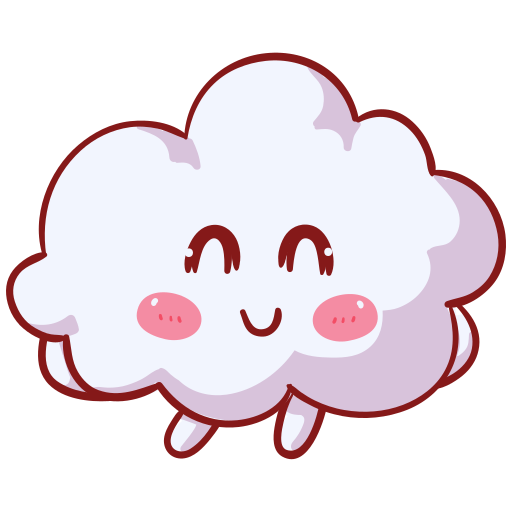
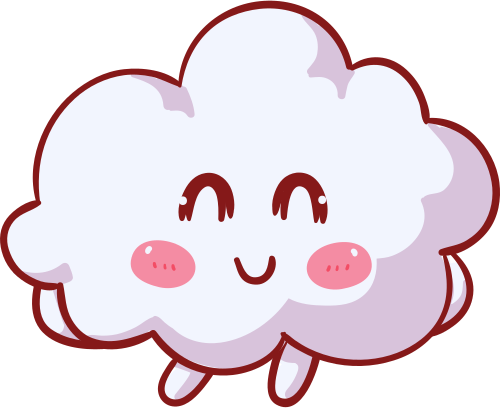
create js functionality for cloud jumper platformer mini game

diff --git a/scripts/cloudJumper.js b/scripts/cloudJumper.js
@@ -1,0 +1,143 @@
+const player = document.getElementById('cloud-jumper');
+const game = document.querySelector('.cloud-jumper-game');
+const clouds = [];
+
+let playerY = 100;
+let velocityY = 0;
+const gravity = 0.65;
+let gameStarted = false;
+
+let isJumping = false;
+let jumpPower = 8;
+let charging = false;
+let maxPower = 14;
+let chargeRate = 0.5;
+let onPlatform = false;
+let activePlatform = null;
+
+let gameOver = false;
+
+
+const maxGap = (2 * maxPower / gravity) * 1.5; 
+
+for (let i = 0; i < 5; i++) {
+    const el = document.createElement('img');
+    el.src = "./images/cloud.png"; // your image
+    el.classList.add('cloud');
+
+    game.appendChild(el);
+
+    clouds.push({
+        x: i === 0 ? 300 : i === 1 ? 600 : game.clientWidth + i * (maxGap),
+        y: 50,
+        el
+    });
+}
+
+clouds.forEach(c => {
+    c.el.style.left = c.x + 'px';
+    c.el.style.bottom = c.y + 'px';
+});
+
+
+
+function update() {
+    if (gameStarted) {
+        if (gameOver) {
+            requestAnimationFrame(update);
+            return;
+        }
+
+        // Thrust while holding space
+        if (charging) {
+            velocityY = Math.min(velocityY + chargeRate, maxPower);
+        }
+
+        // Apply physics when not on a platform
+        if (!onPlatform) {
+            velocityY -= gravity;
+            playerY += velocityY;
+        } else {
+            // Ride the active platform's Y position
+            if (activePlatform) {
+                playerY = activePlatform.y + activePlatform.el.offsetHeight;
+            }
+        }
+
+        player.style.bottom = playerY + 'px';
+
+        // Move clouds
+        clouds.forEach(c => {
+            c.x -= 2;
+
+            if (c.x < -100) {
+                c.x = game.clientWidth + Math.random() * maxGap;
+                c.y = 50;
+            }
+
+            
+
+            c.el.style.left = c.x + 'px';
+            c.el.style.bottom = c.y + 'px';
+        });
+
+        // Collision detection — only land on top, don't snap when jumping upward
+        let landed = false;
+        clouds.forEach(c => {
+            const playerRect = player.getBoundingClientRect();
+            const cloudRect = c.el.getBoundingClientRect();
+
+            const horizontalOverlap =
+                playerRect.left < cloudRect.right &&
+                playerRect.right > cloudRect.left;
+
+            const landingOnTop =
+                playerRect.bottom >= cloudRect.top &&
+                playerRect.bottom <= cloudRect.bottom &&
+                velocityY <= 0; // only snap when falling or neutral
+
+            if (horizontalOverlap && landingOnTop) {
+                landed = true;
+                activePlatform = c;
+            }
+        });
+
+        if (landed) {
+            onPlatform = true;
+            velocityY = 0;
+            isJumping = false;
+        } else if (!landed && onPlatform && velocityY <= 0) {
+            // Walked off the edge of a cloud — start falling
+            onPlatform = false;
+            activePlatform = null;
+        }
+
+        // Game over if player falls off screen
+        if (playerY < 0) {
+            console.log("game over");
+            gameOver = true;
+        }
+    }
+
+    requestAnimationFrame(update);
+}
+
+document.addEventListener('keydown', (event) => {
+    if (event.repeat) return;
+    if (event.code === 'Space' && !isJumping) {
+        gameStarted = true;
+        charging = true;
+        isJumping = true;
+        onPlatform = false;
+        activePlatform = null;
+        velocityY = jumpPower;
+    }
+});
+
+document.addEventListener('keyup', (event) => {
+    if (event.code === 'Space') {
+        charging = false;
+    }
+});
+
+update();

diff --git a/css/cloud-jumper.css b/css/cloud-jumper.css
@@ -15,24 +15,23 @@
 .cloud-jumper-game {
     background: rgb(203, 232, 192);;
     position: relative;
-    width: 100%;
+    width: 550px;
     height: 300px;
     padding: 10px;
     border-radius: 10px;
+    overflow: hidden;
 }
 
 .cloud {
     position: absolute;
-    right:0;
-    bottom: 60px;
-    width: 50px;
+    width: 80px;
     height: 50px;
 }
 
-.cloud-jumper {
+#cloud-jumper {
     position: absolute;
     left: 150px;
     bottom: 100px;
-    width: 80px;
+    width: auto;
     height: 80px;
 }

diff --git a/base.html b/base.html
@@ -561,7 +561,7 @@
     </div>
 
     <!-- cloud jumper mini game popup-->
-    <div id="cloud-jumper-popup" class="popup open">
+    <div id="cloud-jumper-popup" class="popup">
         <div class="popup-window window-classic">
             <div class="popup-titlebar">
                 <span>cloud jumper</span>
@@ -570,8 +570,7 @@
             <div class="cloud-jumper-container"> 
                 <p>a sexxidude production</p>
                 <div class="cloud-jumper-game"> 
-                    <img class="cloud-jumper" src="images/cloud-jumper.png">
-                    <img class="cloud" src="images/cloud.png">
+                    <img id="cloud-jumper" src="images/cloud-jumper.png">
                 </div>
             </div>
         </div>